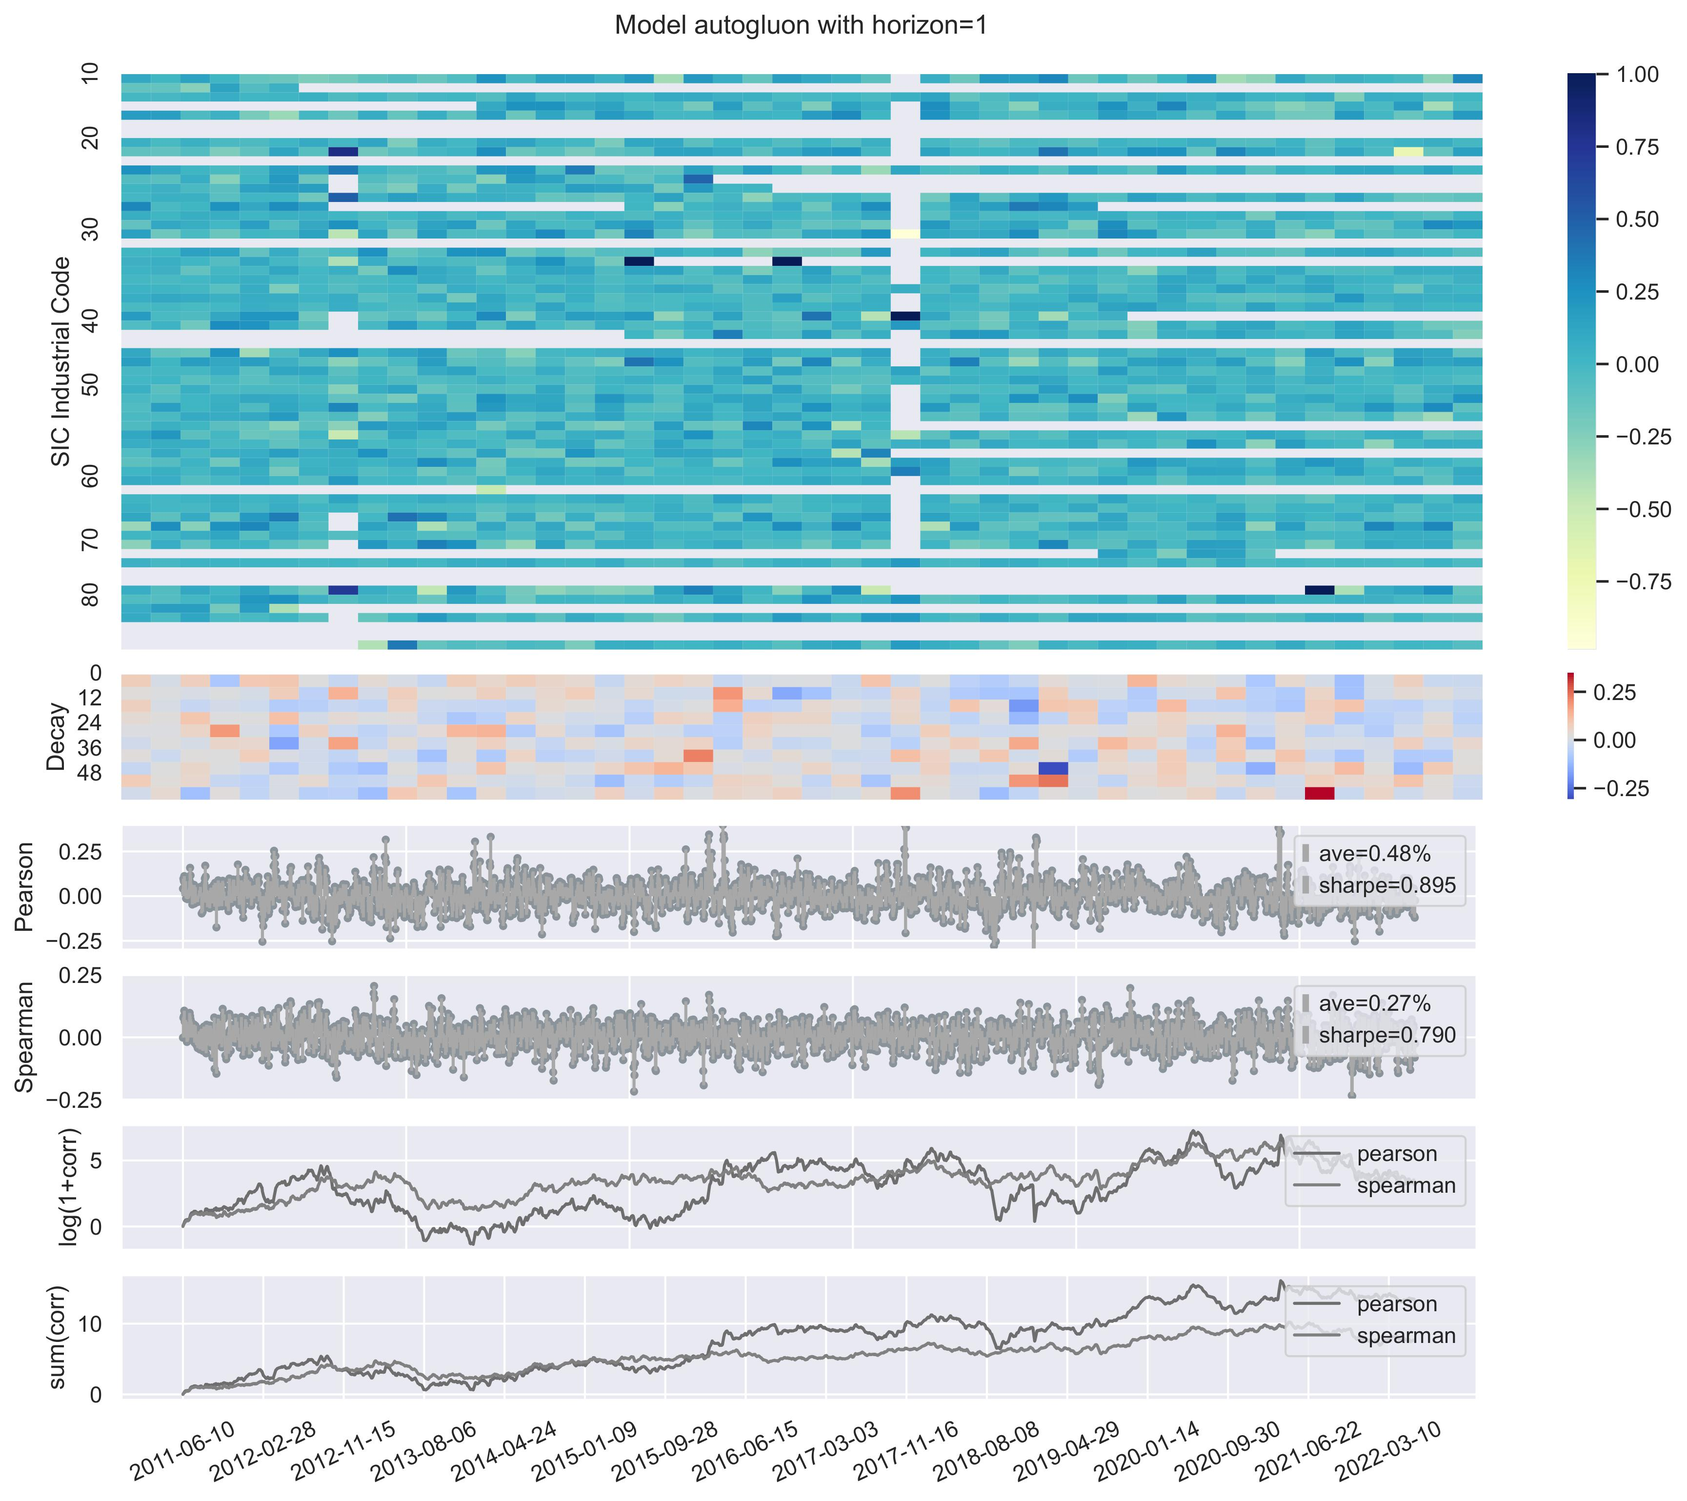
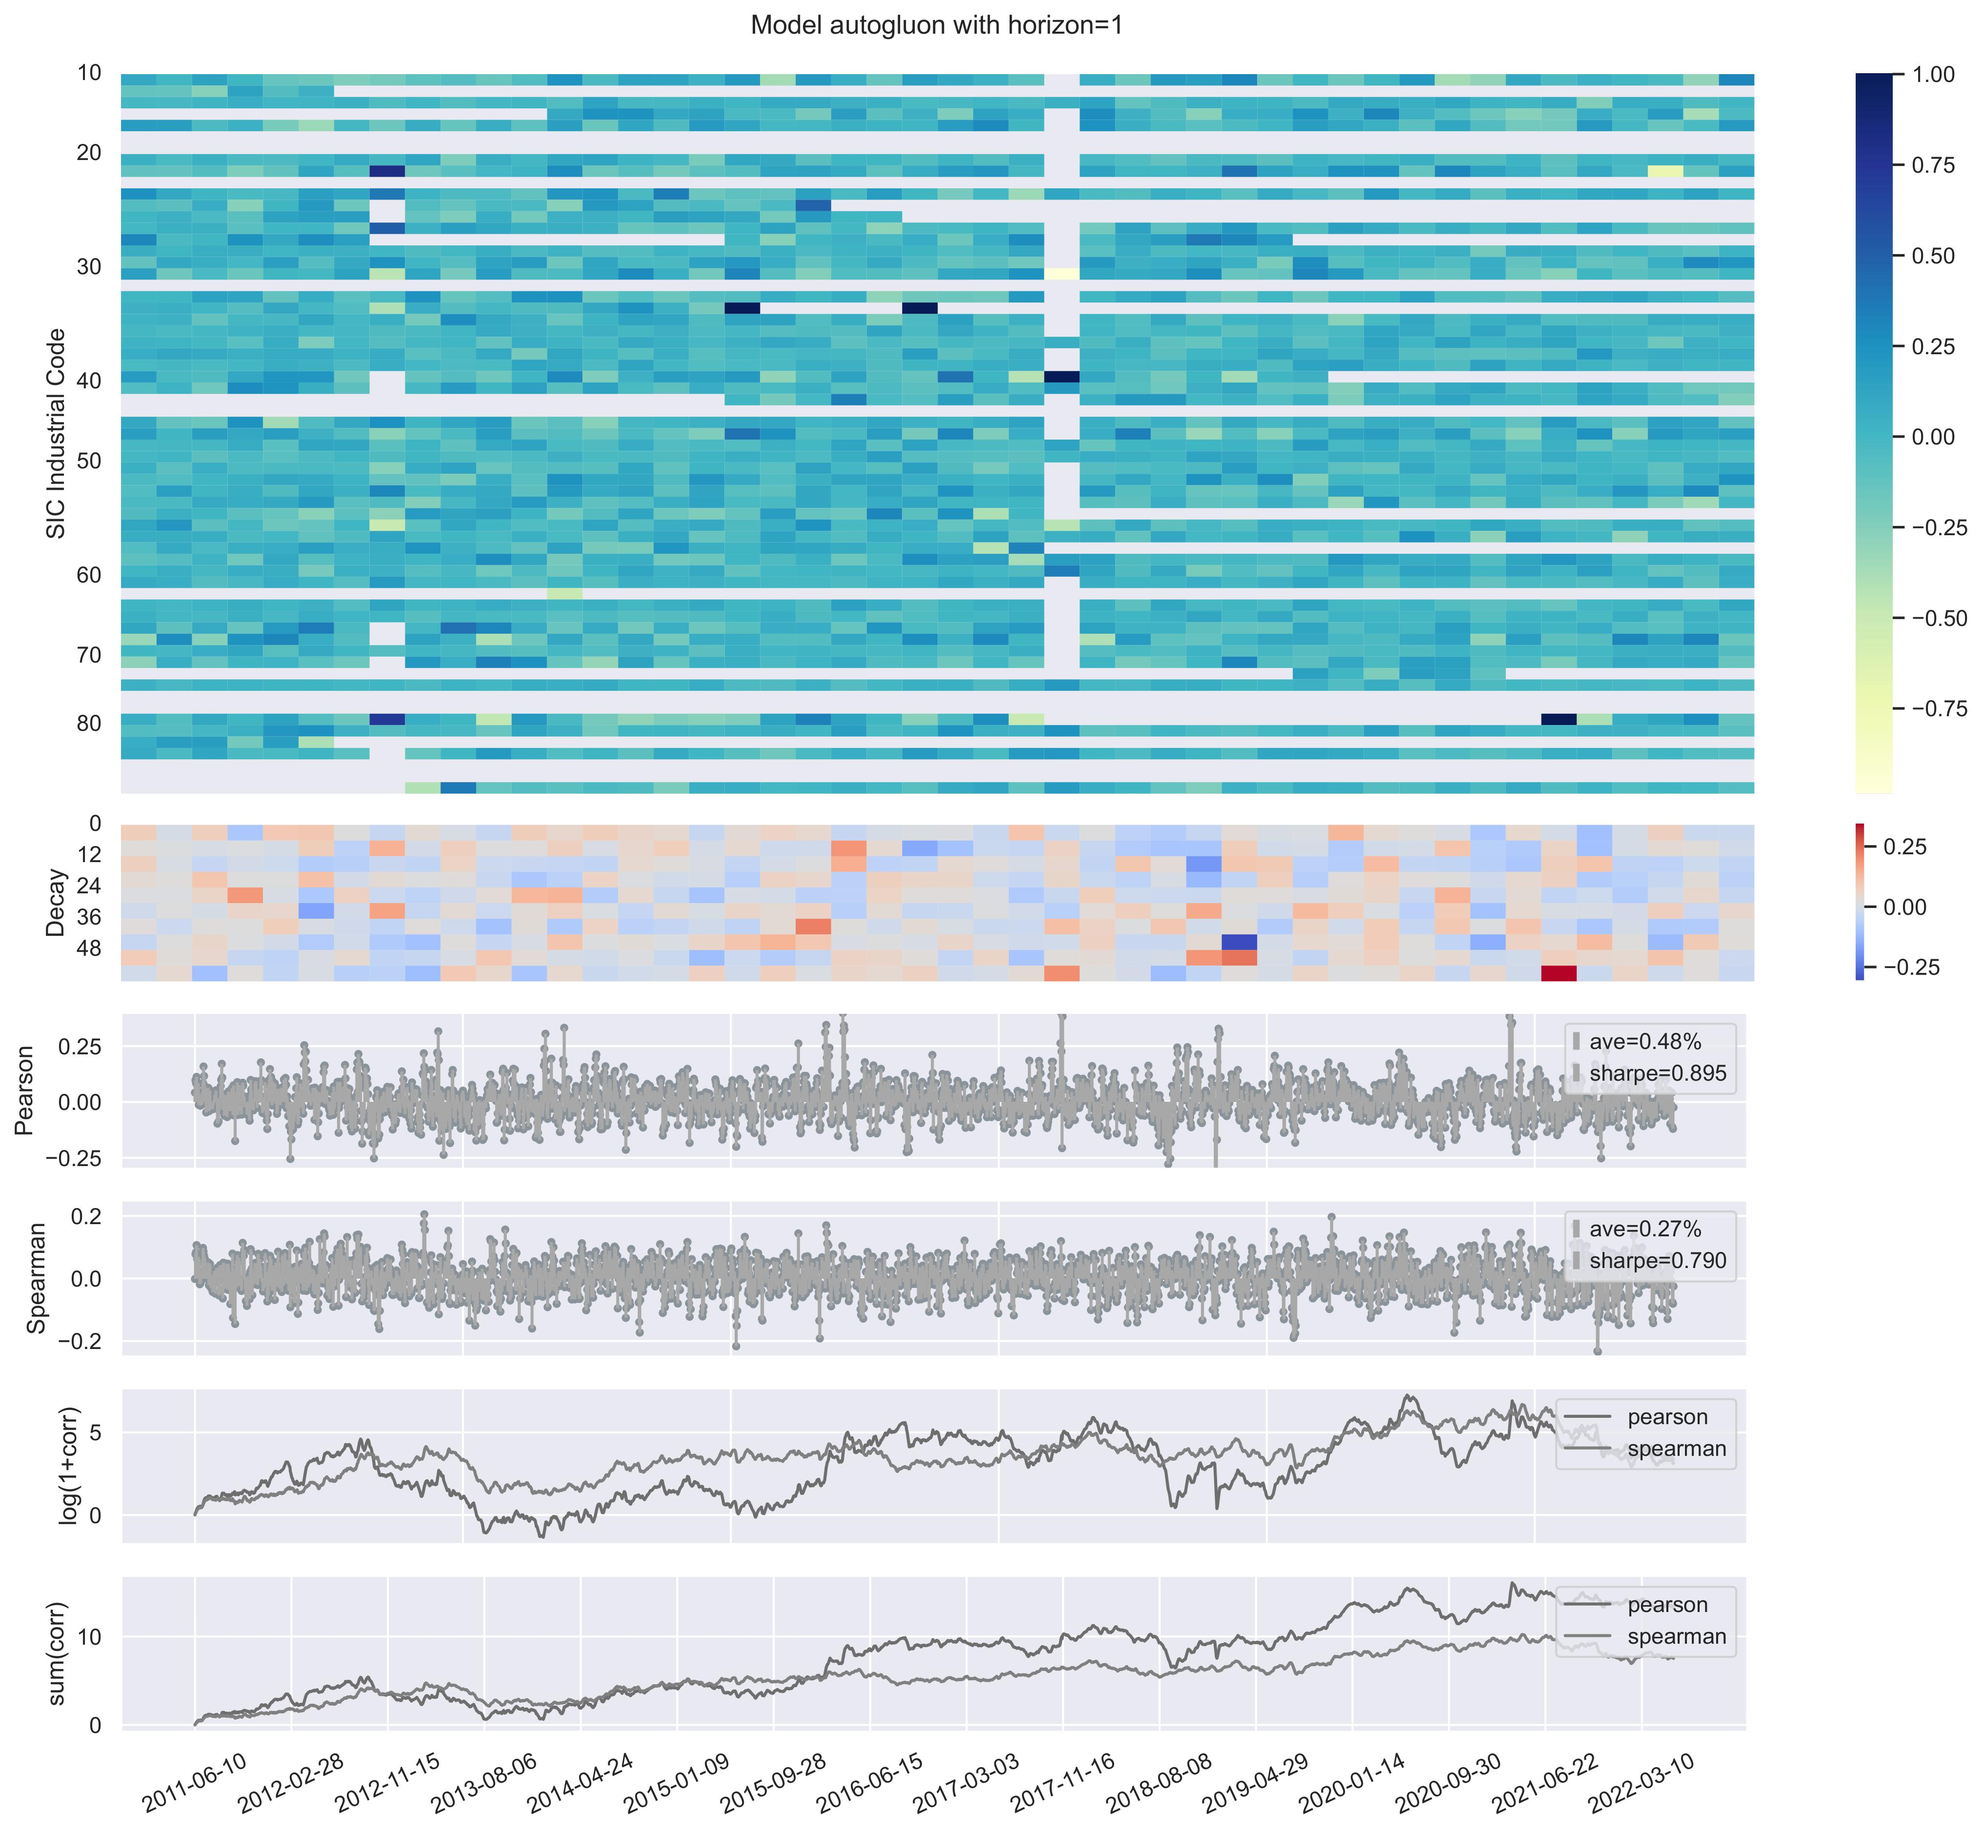
update

diff --git a/experiments/correlation.py b/experiments/correlation.py
@@ -70,7 +70,7 @@ def plot_correlation(model_name, horizon, corr_ind_df, decay_df, corr_df):
 
     # initialize correlation plot
     test_size = window_dict["test_win"] - window_dict["valid_win"]
-    fig = plt.figure(figsize=(15, 12))
+    fig = plt.figure(figsize=(18, 15))
     gs = fig.add_gridspec(9, 10)
     axa = fig.add_subplot(gs[0:4, :])
     axb = fig.add_subplot(gs[4:5, :])
